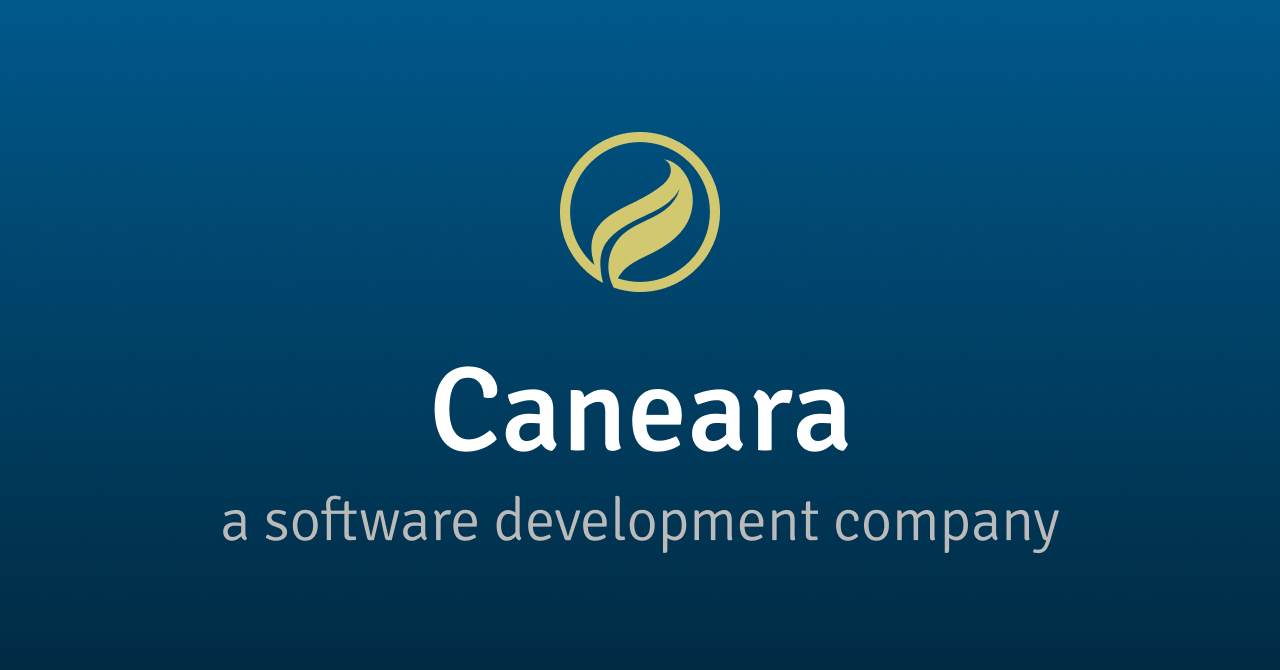
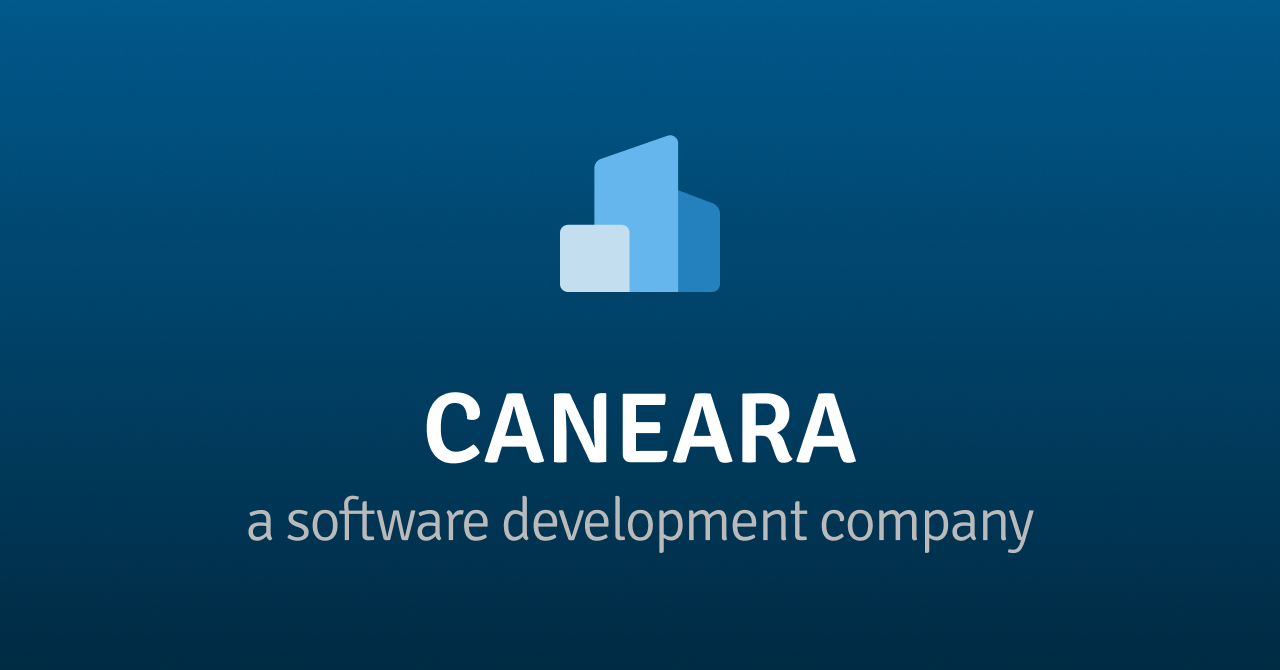
branding

Changed region(s): [[0.3125, 0.5373, 0.6875, 0.7164], [0.1562, 0.7164, 0.8438, 0.8358], [0.4375, 0.1791, 0.5625, 0.4478]]

diff --git a/index.html b/index.html
@@ -69,16 +69,16 @@
 
         <!-- Logo -->
         <img alt="Caneara"
-             class="h-[55px] mb-2"
+             class="h-[55px] mb-4"
              src="assets/img/general/logo.svg" />
 
         <!-- Header -->
-        <h1 class="font-signika text-[40px] text-white md:-mb-[6px]">
+        <h1 class="font-signika font-semibold text-[30px] text-white uppercase md:-mb-[6px]">
             Caneara
         </h1>
 
         <!-- Description -->
-        <p class="text-[19px] md:text-[21px] text-gray-400/80 text-center mb-12">
+        <p class="text-[19px] md:text-[21px] text-gray-400/80 text-center -tracking-[.2px] mb-12">
             A software development company
         </p>
 
@@ -146,7 +146,7 @@
 
                     <!-- Logo -->
                     <img alt="Varnish"
-                         class="h-[30px] mr-3"
+                         class="h-[25px] mr-3"
                          src="assets/img/products/varnish.png" />
 
                     <!-- Title -->
